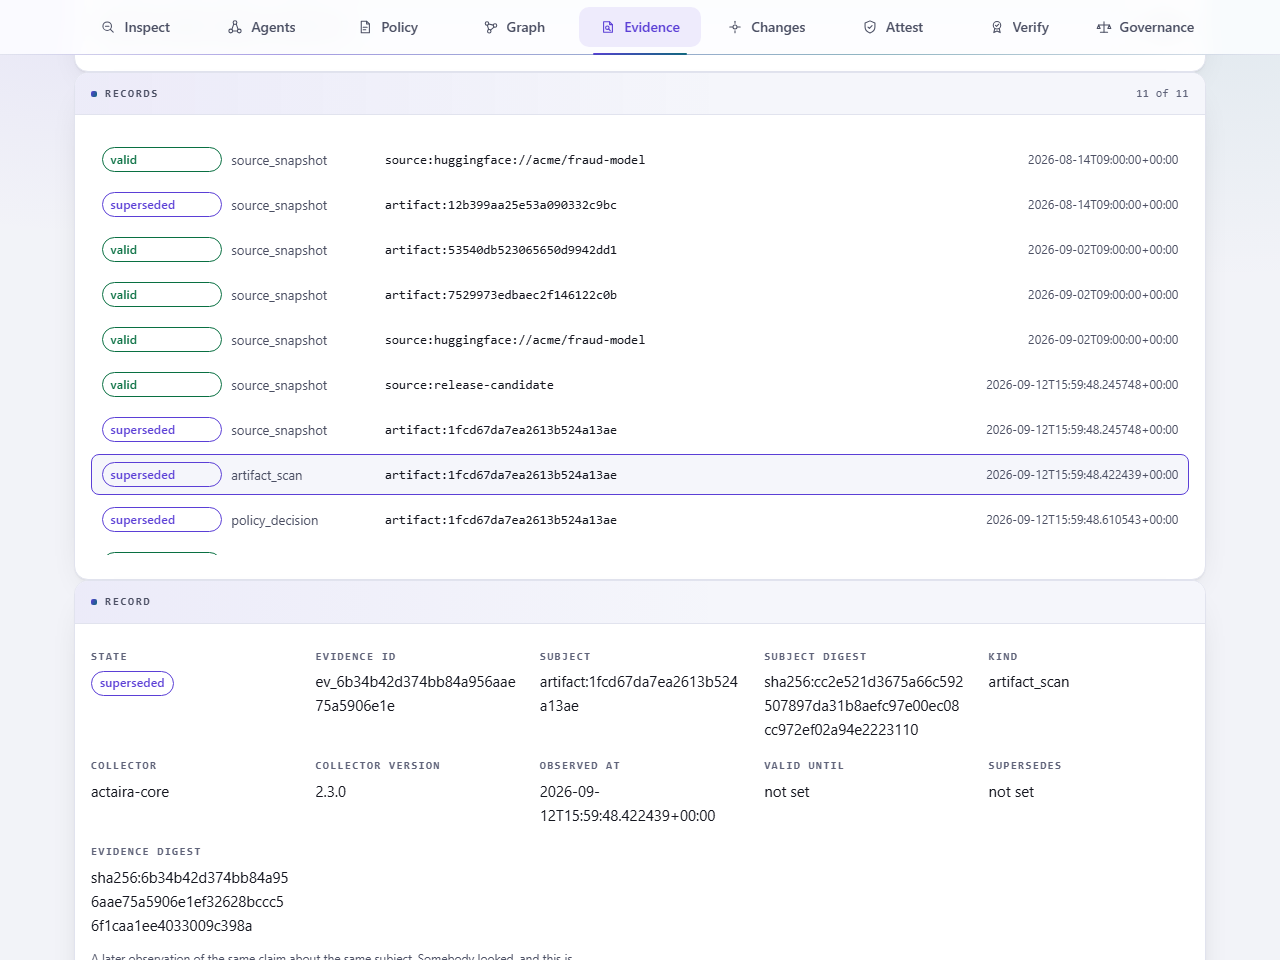
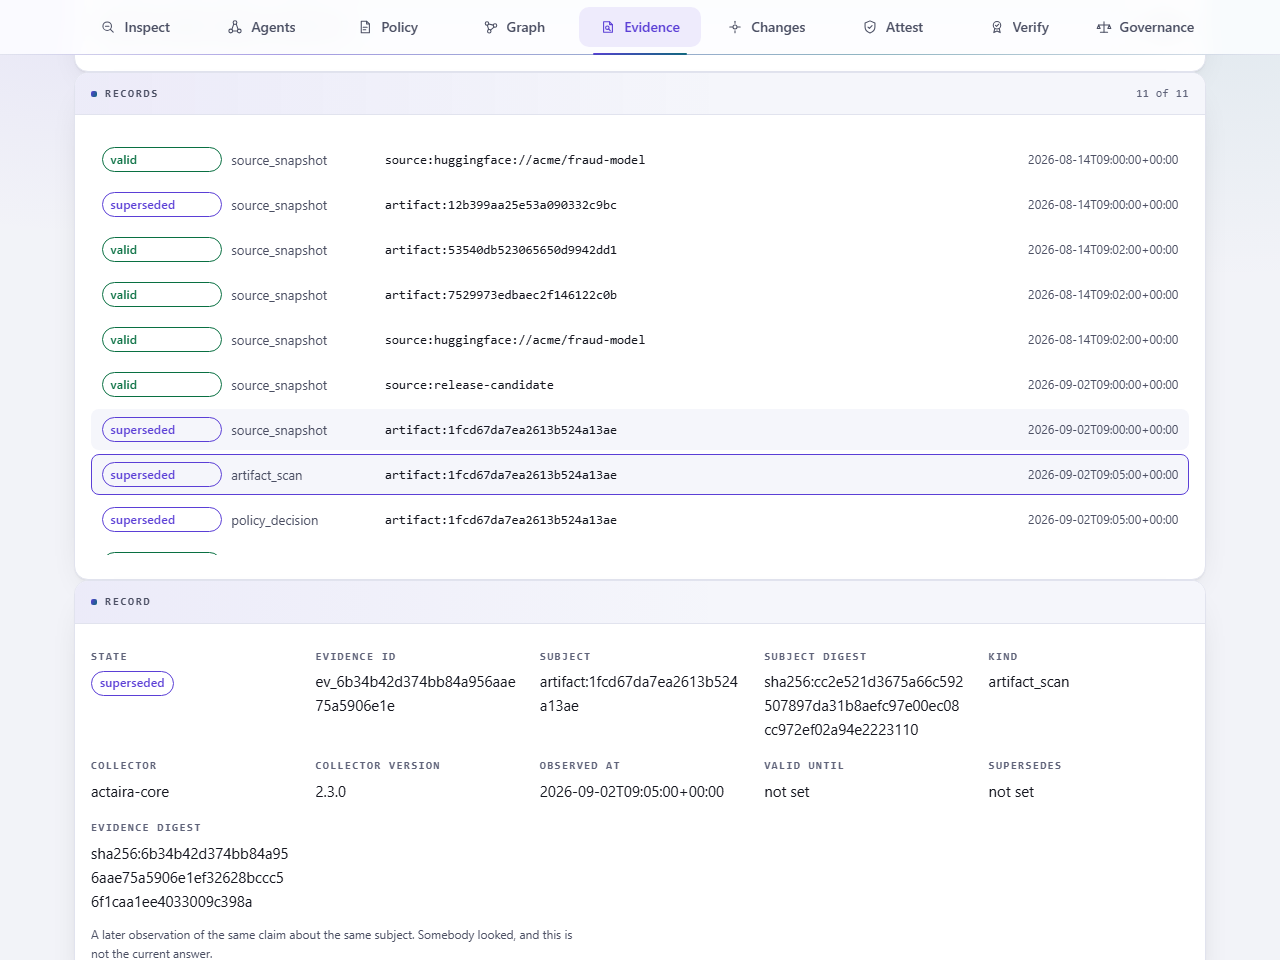
Pin the screenshot fixture's clocks, so regenerating is not a diff
The demo story is built by the commands an operator types, which is the
point. What it inherited was `datetime.now()` in every row, so two runs
of `make screenshots` produced two different pictures of one story and
this repository, which commits its captures, would carry a permanent diff
nobody could read.

The clocks are pinned after the commands have built it, and that is
checked rather than assumed: a snapshot's digest covers the source, the
connector, the revision and the artifacts, and deliberately not
`observed_at`. No identity moves, which is the only reason this is a
fixture helper and not a falsification.

diff --git a/tests/test_web_frontend.py b/tests/test_web_frontend.py
@@ -472,3 +472,69 @@ def test_no_shipped_static_file_carries_a_raw_control_character():
                 "as an escape: a control character here is invisible in review and does "
                 "not survive a copy."
             )
+
+
+def test_the_screenshot_fixture_is_built_twice_into_the_same_state(tmp_path):
+    """Two runs of `make screenshots` must not produce two different pictures.
+
+    The fixture is built by the commands an operator types, which is the point:
+    one assembled by writing rows could show a panel a state the commands
+    cannot produce. What it must not also inherit is `datetime.now()` in every
+    row, because then every regeneration is a committed diff for a reason that
+    is not a change, and a repository that commits its screenshots ends up with
+    a permanent one nobody can read.
+
+    So the story's clocks are pinned after the commands have built it, and this
+    is the check that they still are. Comparing the state export rather than
+    the images: an export is a document a failure can be read out of, and a
+    PNG comparison would tell you only that two files differ.
+    """
+    import importlib.util
+    import json
+
+    from actaira.state.store import Store
+
+    location = Path(REPO_ROOT) / "scripts" / "screenshots.py"
+    spec = importlib.util.spec_from_file_location("screenshots_fixture", location)
+    module = importlib.util.module_from_spec(spec)
+    spec.loader.exec_module(module)
+
+    # Twice into the SAME directory, which is what `make screenshots` does:
+    # it always builds `.screenshots/graph-state.db`. Building into two
+    # different directories would compare two different fixtures, because an
+    # artifact's asset id is derived from its URI and the URI of a local file
+    # contains the directory it is in - which is the property that gives an
+    # artifact a history across observations, and is not a defect.
+    exports = []
+    room = tmp_path / "screenshots"
+    room.mkdir()
+    for _ in range(2):
+        module.build_workspace(room / "state.db")
+        with Store(room / "state.db", create=False) as store:
+            document = store.export()
+        # The tool version and the absolute paths differ by construction; what
+        # has to agree is every identity and every timestamp.
+        exports.append(json.dumps({
+            "snapshots": [(row["digest"], row["observed_at"]) for row in document["snapshots"]],
+            "evidence": sorted(
+                (row["evidence_id"], row["kind"], row["state"], row["observed_at"])
+                for row in document["evidence"]
+            ),
+            "decisions": sorted(
+                (row["decision_id"], row["decision"], row["observed_at"])
+                for row in document["decisions"]
+            ),
+            "decision_inputs": sorted(
+                (row["role"], row["ref"]) for row in document["decision_inputs"]
+            ),
+        }, sort_keys=True))
+
+    assert exports[0] == exports[1], (
+        "two builds of the screenshot fixture disagree, so every regeneration "
+        "of the captures will be a diff that is not a change"
+    )
+    # And the story is actually there, or the comparison above is comparing
+    # two empty documents.
+    assert "artifact_scan" in exports[0]
+    assert "policy_decision" in exports[0]
+    assert "superseded" in exports[0]

diff --git a/scripts/screenshots.py b/scripts/screenshots.py
@@ -276,6 +276,63 @@ def _assurance_story(state: Path) -> None:
     weights.write_bytes(REPLACED_BYTES)
     run("watch", "release-candidate", "--state", str(state))
 
+    _pin_the_clocks(state)
+
+
+# When each row in the demo story was written. The commands above take their
+# timestamps from the wall clock, which is right for a tool and wrong for a
+# fixture: every capture would differ from the last for a reason that is not
+# a change, and a repository that commits its screenshots would carry a
+# permanent diff nobody could read.
+STORY_CLOCK = (
+    ("sources", "added_at", "2026-08-14T09:00:00+00:00"),
+    ("sources", "last_seen", "2026-09-02T09:05:00+00:00"),
+    ("assets", "first_seen", "2026-08-14T09:00:00+00:00"),
+    ("assets", "last_seen", "2026-09-02T09:05:00+00:00"),
+)
+
+
+def _pin_the_clocks(state: Path) -> None:
+    """Give the fixture fixed timestamps, after the commands have built it.
+
+    The story is built by the commands an operator types, which is the point -
+    a fixture assembled by writing rows could show a panel a state the
+    commands cannot produce. What it must not also inherit is `datetime.now()`
+    in every row, because then two runs of `make screenshots` produce two
+    different pictures of the same story.
+
+    Rewriting these columns is safe and that is checked rather than assumed: a
+    snapshot's digest covers the source, the connector, the revision and the
+    artifacts and deliberately not `observed_at` (two observations of an
+    unchanged source must agree), and an evidence record's digest covers what
+    the evidence says and not when it was taken. So nothing here changes an
+    identity, which is the only reason this is a fixture helper and not a
+    falsification.
+    """
+    import sqlite3  # noqa: PLC0415
+
+    moments = ["2026-08-14T09:00:00+00:00", "2026-08-14T09:02:00+00:00",
+               "2026-09-02T09:00:00+00:00", "2026-09-02T09:05:00+00:00"]
+    connection = sqlite3.connect(state)
+    try:
+        for table, column, moment in STORY_CLOCK:
+            connection.execute(f"UPDATE {table} SET {column} = ?", (moment,))  # noqa: S608
+        # Snapshots and evidence keep their order: the nth distinct moment in
+        # the story gets the nth fixed timestamp, so "before" still reads as
+        # before.
+        for table in ("snapshots", "evidence"):
+            rows = [row[0] for row in connection.execute(
+                f"SELECT DISTINCT observed_at FROM {table} ORDER BY observed_at"  # noqa: S608
+            )]
+            for index, original in enumerate(rows):
+                connection.execute(
+                    f"UPDATE {table} SET observed_at = ? WHERE observed_at = ?",  # noqa: S608
+                    (moments[min(index, len(moments) - 1)], original),
+                )
+        connection.commit()
+    finally:
+        connection.close()
+
 
 def start_server_with_state(state: Path, port: int) -> subprocess.Popen:
     """A second server, against the fixture workspace, for the graph captures."""

diff --git a/docs/FIGURES.md b/docs/FIGURES.md
@@ -9,18 +9,18 @@ code twice, and a number nobody can regenerate is a number nobody can check.
 make figures
 ```
 
-Generated 2026-09-12T16:41:31+00:00 for actaira 2.3.0, at commit f3d2c19.
+Generated 2026-09-12T16:57:07+00:00 for actaira 2.3.0, at commit f8e9c18.
 
 ## The package
 
 - version **2.3.0**, Python >=3.11
 - runtime dependencies: **1** (cryptography>=41)
 - development dependencies: pytest>=8, numpy>=1.26, ruff>=0.6, jsonschema>=4.18, pillow>=10
-- 5 commits, most recent 2026-09-12
+- 6 commits, most recent 2026-09-12
 
 ## Tests
 
-**3594** tests collected by pytest across 56 files.
+**3595** tests collected by pytest across 56 files.
 
 | file | tests |
 |---|---:|
@@ -76,11 +76,11 @@ Generated 2026-09-12T16:41:31+00:00 for actaira 2.3.0, at commit f3d2c19.
 | `tests/test_trust_paths.py` | 39 |
 | `tests/test_web_agents.py` | 50 |
 | `tests/test_web_evidence.py` | 53 |
-| `tests/test_web_frontend.py` | 18 |
+| `tests/test_web_frontend.py` | 19 |
 | `tests/test_web_graph.py` | 69 |
 | `tests/test_web_limits.py` | 31 |
 | `tests/test_web_policy.py` | 34 |
-| **total** | **3594** |
+| **total** | **3595** |
 
 ## The obligation catalogue
 
@@ -154,11 +154,11 @@ and the modules are the source of truth.
 | i18n | 2 | 55 | 30 | 7 | 7 | 11 |
 | web | 2 | 2323 | 1440 | 301 | 298 | 284 |
 | rest | 13 | 4658 | 2839 | 868 | 333 | 618 |
-| tests | 58 | 28980 | 16828 | 4070 | 1435 | 6647 |
+| tests | 58 | 29046 | 16864 | 4082 | 1445 | 6655 |
 | evals | 8 | 3619 | 2485 | 444 | 250 | 440 |
 | fuzz | 1 | 1284 | 827 | 147 | 110 | 200 |
-| scripts | 11 | 4586 | 3082 | 609 | 325 | 570 |
-| **total** | 176 | 71879 | 43311 | 11633 | 4689 | 12246 |
+| scripts | 11 | 4643 | 3109 | 623 | 333 | 578 |
+| **total** | 176 | 72002 | 43374 | 11659 | 4707 | 12262 |
 
 Documentation, in lines of Markdown:
 

diff --git a/README.es.md b/README.es.md
@@ -29,7 +29,7 @@ Nada se carga, se deserializa ni se ejecuta nunca. Nada se puntúa nunca.
 | | | |
 |---|---|---|
 | **80 reglas documentadas** | **15 controles ejecutables** | **21 obligaciones** modeladas |
-| **3.594 tests**, ninguna cifra escrita a mano | **7 conectores** que nunca deciden | una dependencia en tiempo de ejecución |
+| **3.595 tests**, ninguna cifra escrita a mano | **7 conectores** que nunca deciden | una dependencia en tiempo de ejecución |
 
 **No hace falta red** para escanear en local, para la gobernanza ni para verificar sin conexión. El descubrimiento remoto y el anclaje temporal RFC 3161 llegan a la red solo cuando se lo pides, `bundle` y `discover` aceptan `--offline` para prohibirlo del todo, y aquí nada llama a casa: no hay telemetría, ni cuenta, ni servicio alojado.
 
@@ -326,7 +326,7 @@ Y el bucle se cierra. La siguiente observación se compara con la anterior, así
 
 ![El bucle de garantía de Actaira](docs/img/pipeline.svg)
 
-**71.879 líneas de Python**, una dependencia en tiempo de ejecución, y **160 notas de diseño** que registran por qué cada decisión salió como salió. [`docs/DESIGN.md`](docs/DESIGN.md) es el índice; cada nota nombra el fichero y la línea que la implementa, y un test falla si una nota escrita en el código no está en la tabla.
+**72.002 líneas de Python**, una dependencia en tiempo de ejecución, y **160 notas de diseño** que registran por qué cada decisión salió como salió. [`docs/DESIGN.md`](docs/DESIGN.md) es el índice; cada nota nombra el fichero y la línea que la implementa, y un test falla si una nota escrita en el código no está en la tabla.
 
 ---
 

diff --git a/README.md b/README.md
@@ -29,7 +29,7 @@ Nothing is ever loaded, deserialised or executed. Nothing is ever scored.
 | | | |
 |---|---|---|
 | **80 documented rules** | **15 executable controls** | **21 obligations** modeled |
-| **3,594 tests**, none of them hand-written figures | **7 connectors** that never decide | one runtime dependency |
+| **3,595 tests**, none of them hand-written figures | **7 connectors** that never decide | one runtime dependency |
 
 **No network is required** for local scanning, governance or offline verification. Remote discovery and RFC 3161 time anchoring reach the network only when you ask them to, `bundle` and `discover` take `--offline` to forbid it outright, and nothing here ever phones home: there is no telemetry, no account and no hosted service.
 
@@ -326,7 +326,7 @@ And the loop closes. The next observation is compared against the last, so the o
 
 ![The Actaira assurance loop](docs/img/pipeline.svg)
 
-**71,879 lines of Python**, one runtime dependency, and **160 design notes** recording why each decision went the way it did. [`docs/DESIGN.md`](docs/DESIGN.md) is the index; every note names the file and line that implements it, and a test fails if a note in the code is missing from the table.
+**72,002 lines of Python**, one runtime dependency, and **160 design notes** recording why each decision went the way it did. [`docs/DESIGN.md`](docs/DESIGN.md) is the index; every note names the file and line that implements it, and a test fails if a note in the code is missing from the table.
 
 ---
 
